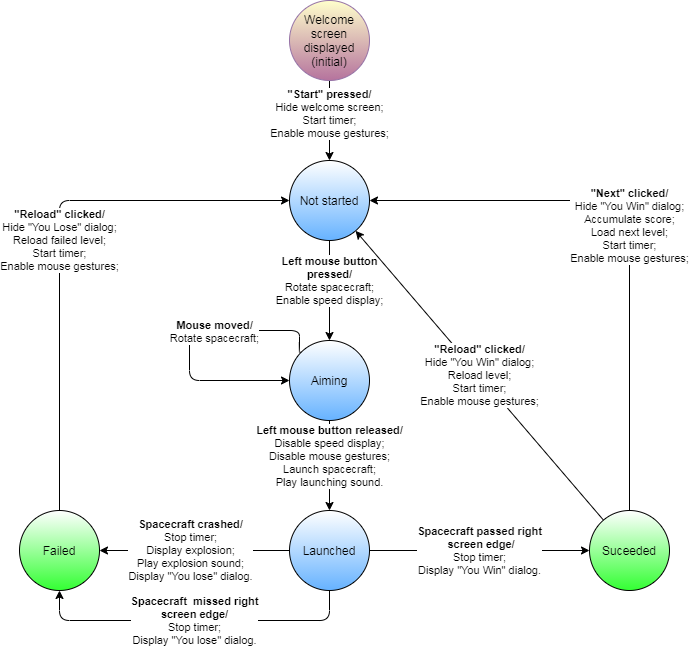
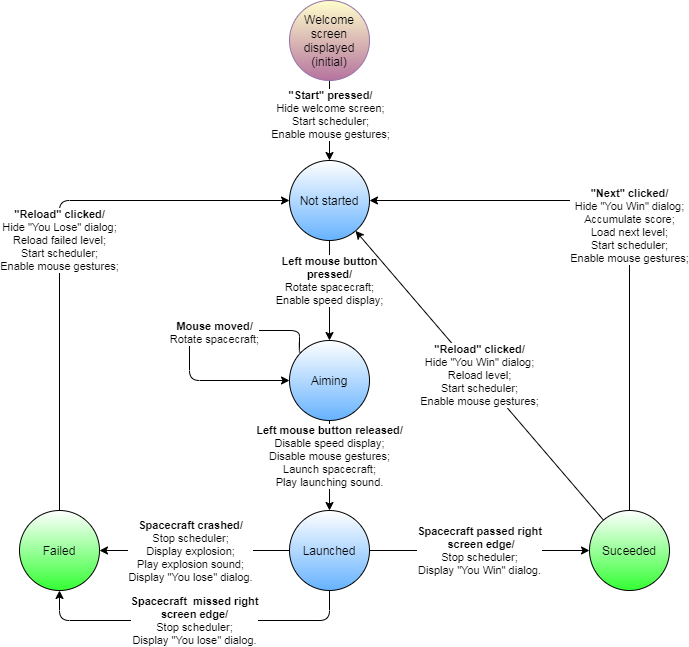
documentation upgrade

diff --git a/README.md b/README.md
@@ -1,22 +1,62 @@
-# star-drifter
-Star Drifter - a gravity based space game (play [here](https://star-drifter.uc.r.appspot.com/)).
+# Star Drifter
+Star Drifter - a multi level, gravity based space game (play **[here](https://star-drifter.uc.r.appspot.com/)**).
 
-The game has been written in Java withe the use of [Google Web Toolkit](http://www.gwtproject.org/) as browser adaptation mechanism.
-
-
-##Use cases
+## Use cases
+The following diagram presentes the use cases implemented by the game.
 ![Use Cases](/docs/use_cases.png)
+
 **Figure 1. Game states.**
 
+The __Scheduler__ is a virtual actor implemented by the platform providing time related event mechanism.
 
-##Components
-The following digram shows components. Green components are platform independent. Red components are browser specific.
+## Components
+The following digram shows building blocks of the game.
 
 ![Game components](/docs/components.png)
+
 **Figure 2. Game components.**
 
+Green components are platform independent.
+Red components are platfrom (browser) specific.
 
-##Game states
+## Game states
+The game operates acording to the following state machine implemented jointly by __Presenter__ and __User Interface__.
 ![Game states](/docs/states.png)
+
 **Figure 3. Game states.**
 
+Purple denotes passive initial state when __Player__ is expected to start the game.
+Blue denotes active states when persiodic screen refreshes governed by __Scheduler__ take place.
+Green denotes passive states where no screen refreshes take place, and __Player__ decition is awaited.
+
+## Implementation
+The game has been written in Java with the use of [Google Web Toolkit](http://www.gwtproject.org/) as browser adaptation mechanism.
+The game is ment to be portable across many Java implementations (client side web with GWT, desktop with [Swing](https://en.wikipedia.org/wiki/Swing_(Java))
+ or [SWT](https://en.wikipedia.org/wiki/Standard_Widget_Toolkit), Andorid).
+
+![Compile time dependencies](/docs/comile_time_dependencies.png)
+
+**Figure 4. Compile time dependencies.**
+
+The organization of code dependencies follows [hexagonal architecture](https://en.wikipedia.org/wiki/Hexagonal_architecture_(software)) 
+with platform independent core logic and platform adapters.
+The clean seperation is acheved with a combined use of the following design patterns:
+* [Model-View-Presenter](https://en.wikipedia.org/wiki/Model%E2%80%93view%E2%80%93presenter),
+* [Separated Interface](https://java-design-patterns.com/patterns/separated-interface/),
+* [Virtual Factory](https://en.wikipedia.org/wiki/Factory_method_pattern),
+* [Inversion Of Control](https://en.wikipedia.org/wiki/Inversion_of_control).
+
+## Testing strategy
+Automatic game testing is done mainy through unit testes with the help of test doubles used for controling inputs and sensing outputs.
+The only unit exlicitely under test is __Presenter__. Verification of other portable components is done indireclty through verification of observable behavior of __Presenter__.
+In this case a unit is understood as entire platform-independent part of the game.
+
+![Tests setup](/docs/tests_setup.png)
+
+**Figure 4. Tests setup.**
+
+__User Interface__, __Scheduler__ and __Space Factory__ are intentionally not tested automaticaly.
+
+
+## Deployment
+The game is deployed on [Google AppEngine](https://cloud.google.com/appengine/) platform.
